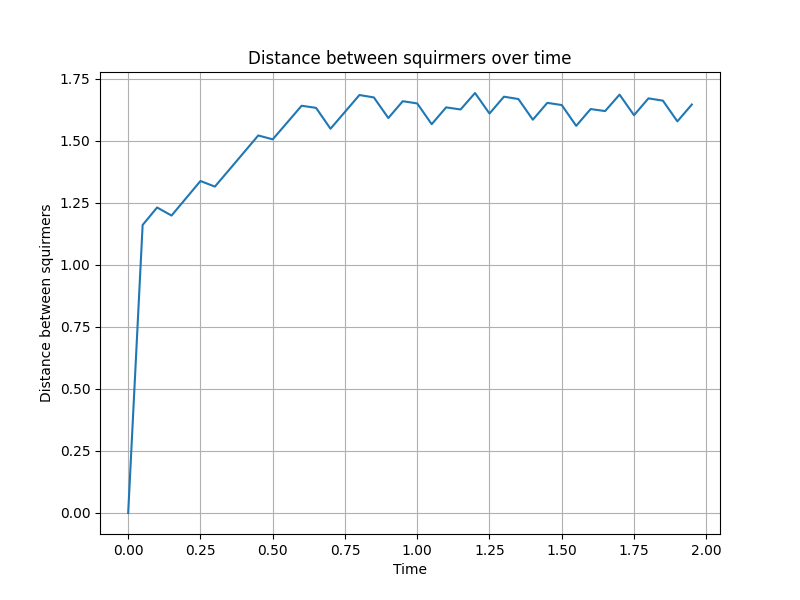
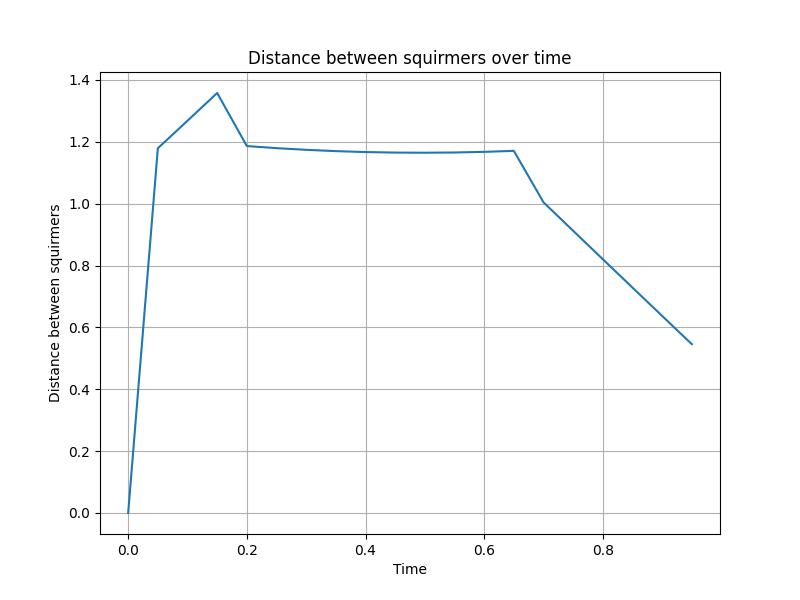
Finalized reflective borders

diff --git a/Code/interactingsquirmers.py b/Code/interactingsquirmers.py
@@ -185,8 +185,6 @@ class InteractingSquirmers:
         x = squirmer.x
         RRi = np.sqrt((x - self.R)**2 + (y - self.R)**2)
         tmp = 6*((self.Es*(self.R - y))/(squirmer.radius*RRi))*(2*(squirmer.radius/RRi)**13-(squirmer.radius/RRi)**7)
-        print(tmp*squirmer.y)
-        print(squirmer.y,"\n")
         return tmp*squirmer.y
     
     #Reflective boundary condition
@@ -196,13 +194,14 @@ class InteractingSquirmers:
         else:
             squirmer = self.squirmer2
         x = squirmer.x
-        diff = abs(x - self.R)
+        orient_new = np.pi - squirmer.orientation
+        diff = self.R - abs(x)
         if boundary == 1:
             #1 for the right border
             x = x - diff
         else:
             x = x + diff
-        return x
+        return x, orient_new
     
     def ref_bound_y(self, choice, boundary):
         if (choice == 1):
@@ -210,13 +209,14 @@ class InteractingSquirmers:
         else:
             squirmer = self.squirmer2
         y = squirmer.y
-        diff = abs(y - self.R)
+        orient_new = -squirmer.orientation
+        diff = self.R - abs(y)
         if boundary == 1:
             #1 for the up boundary
             y = y - diff
         else:
             y = y + diff
-        return y
+        return y, orient_new
     
     def loop_time(self):
         tout = self.dt_out
@@ -272,31 +272,31 @@ class InteractingSquirmers:
         
             #Evolution of position
             self.squirmer1.orientation += self.dt*(val1 + 0.25*val2)
-            self.squirmer1.x += self.dt*(self.squirmer1.velocity * np.cos(self.squirmer1.orientation) + Fs_x + Fl_x1)
-            self.squirmer1.y += self.dt*(self.squirmer1.velocity * np.sin(self.squirmer1.orientation) + Fs_y + Fl_y1)
+            self.squirmer1.x += self.dt*(self.squirmer1.velocity * np.cos(self.squirmer1.orientation) + Fs_x + Fl_x1 + Fs_pw1[0])
+            self.squirmer1.y += self.dt*(self.squirmer1.velocity * np.sin(self.squirmer1.orientation) + Fs_y + Fl_y1 + Fs_pw1[1])
             
             self.squirmer2.orientation += self.dt*(val2 + 0.25*val1)
-            self.squirmer2.x += self.dt*(self.squirmer2.velocity * np.cos(self.squirmer2.orientation) - Fs_x + Fl_x2)
-            self.squirmer2.y += self.dt*(self.squirmer2.velocity * np.sin(self.squirmer2.orientation) - Fs_y + Fl_y2)
+            self.squirmer2.x += self.dt*(self.squirmer2.velocity * np.cos(self.squirmer2.orientation) - Fs_x + Fl_x2 + Fs_pw2[0])
+            self.squirmer2.y += self.dt*(self.squirmer2.velocity * np.sin(self.squirmer2.orientation) - Fs_y + Fl_y2 + Fs_pw2[1])
 
             #Reflective Boundary
             if ((self.R-self.squirmer1.x) < 2**(1/6)*self.squirmer1.radius):
-                self.squirmer1.x = self.ref_bound_x(1,1)
+                self.squirmer1.x, self.squirmer1.orientation = self.ref_bound_x(1,1)
             if ((self.R+self.squirmer1.x) < 2**(1/6)*self.squirmer1.radius):
-                self.squirmer1.x = self.ref_bound_x(1,2)
+                self.squirmer1.x, self.squirmer1.orientation = self.ref_bound_x(1,2)
             if ((self.R-self.squirmer1.y) < 2**(1/6)*self.squirmer1.radius):
-                self.squirmer1.y = self.ref_bound_y(1,1)
+                self.squirmer1.y, self.squirmer1.orientation = self.ref_bound_y(1,1)
             if ((self.R+self.squirmer1.y) < 2**(1/6)*self.squirmer1.radius):
-                self.squirmer1.y = self.ref_bound_y(1,2)
-            
+                self.squirmer1.y, self.squirmer1.orientation = self.ref_bound_y(1,2)
+
             if ((self.R-self.squirmer2.x) < 2**(1/6)*self.squirmer2.radius):
-                self.squirmer2.x = self.ref_bound_x(2,1)
+                self.squirmer2.x, self.squirmer2.orientation = self.ref_bound_x(2,1)
             if ((self.R+self.squirmer2.x) < 2**(1/6)*self.squirmer2.radius):
-                self.squirmer2.x = self.ref_bound_x(2,2)
+                self.squirmer2.x, self.squirmer2.orientation = self.ref_bound_x(2,2)
             if ((self.R-self.squirmer2.y) < 2**(1/6)*self.squirmer2.radius):
-                self.squirmer2.y = self.ref_bound_y(2,1)
+                self.squirmer2.y, self.squirmer2.orientation = self.ref_bound_y(2,1)
             if ((self.R+self.squirmer2.y) < 2**(1/6)*self.squirmer1.radius):
-                self.squirmer2.y = self.ref_bound_y(2,2)
+                self.squirmer2.y, self.squirmer2.orientation = self.ref_bound_y(2,2)
             
             #Update the data to export
             if t >= tout:

diff --git a/Code/run.py b/Code/run.py
@@ -9,12 +9,12 @@ R = L/2
 a = 0.15
 x1, y1 = -0.7, 0.7
 x2, y2 = a/1.1, 0
-orient1, orient2 = np.pi/2, 0
+orient1, orient2 = 3*np.pi/4, 0
 beta = 0
 dt = 1e-4
 lnEps_cr = np.exp(-5)
 Es = 1
-T = 2
+T = 1
 dt_out = 0.05
 Eo = ((3./10.)*v0/a)
 ds = 2**(7./6)*a
